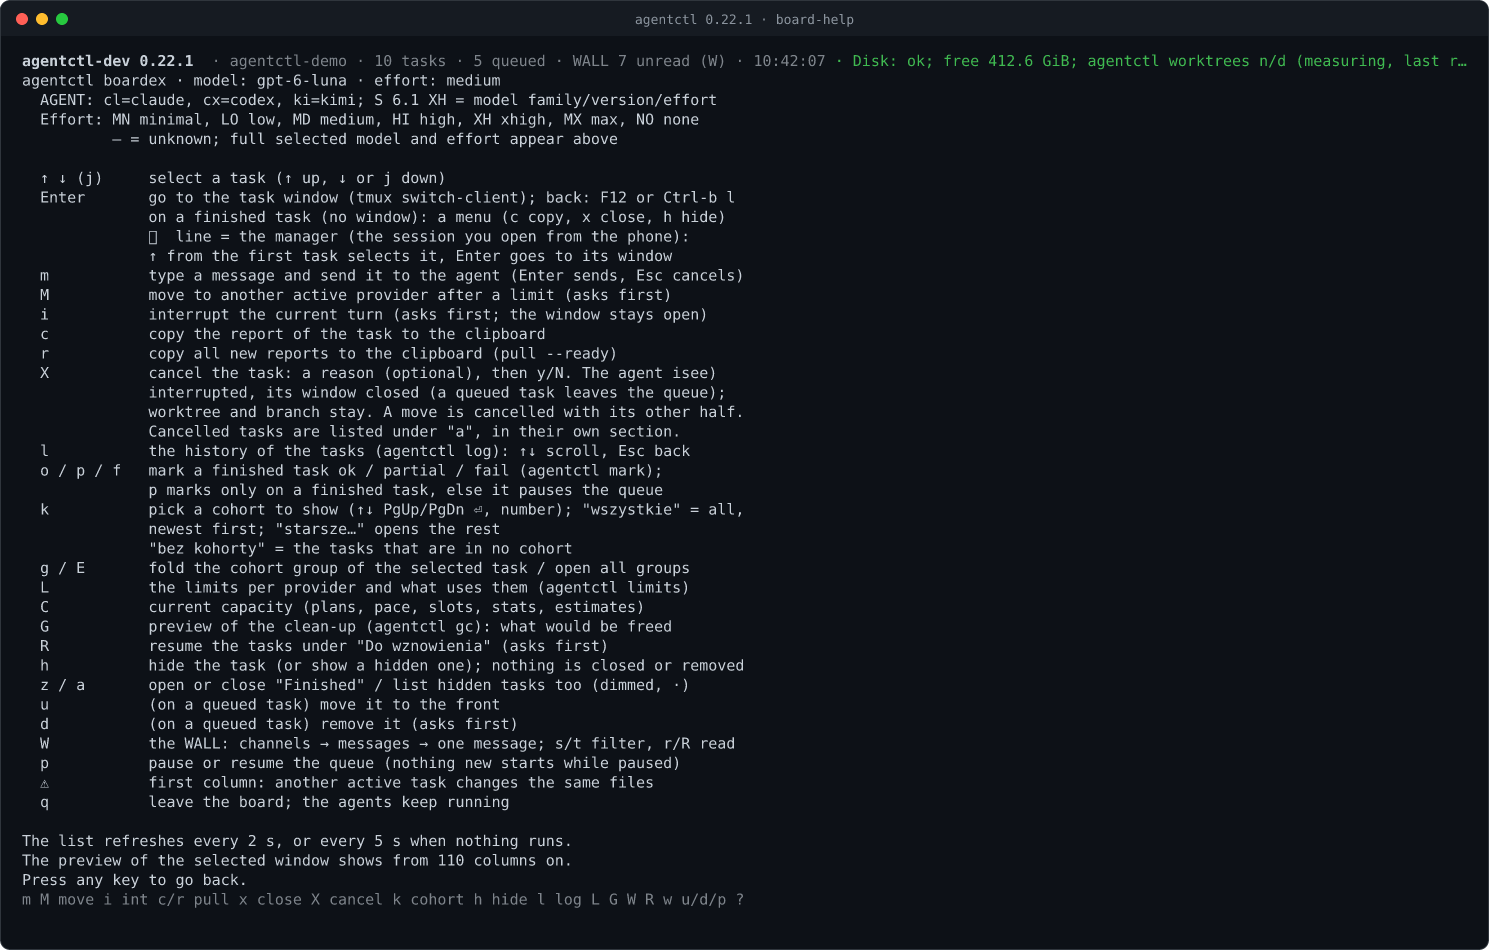
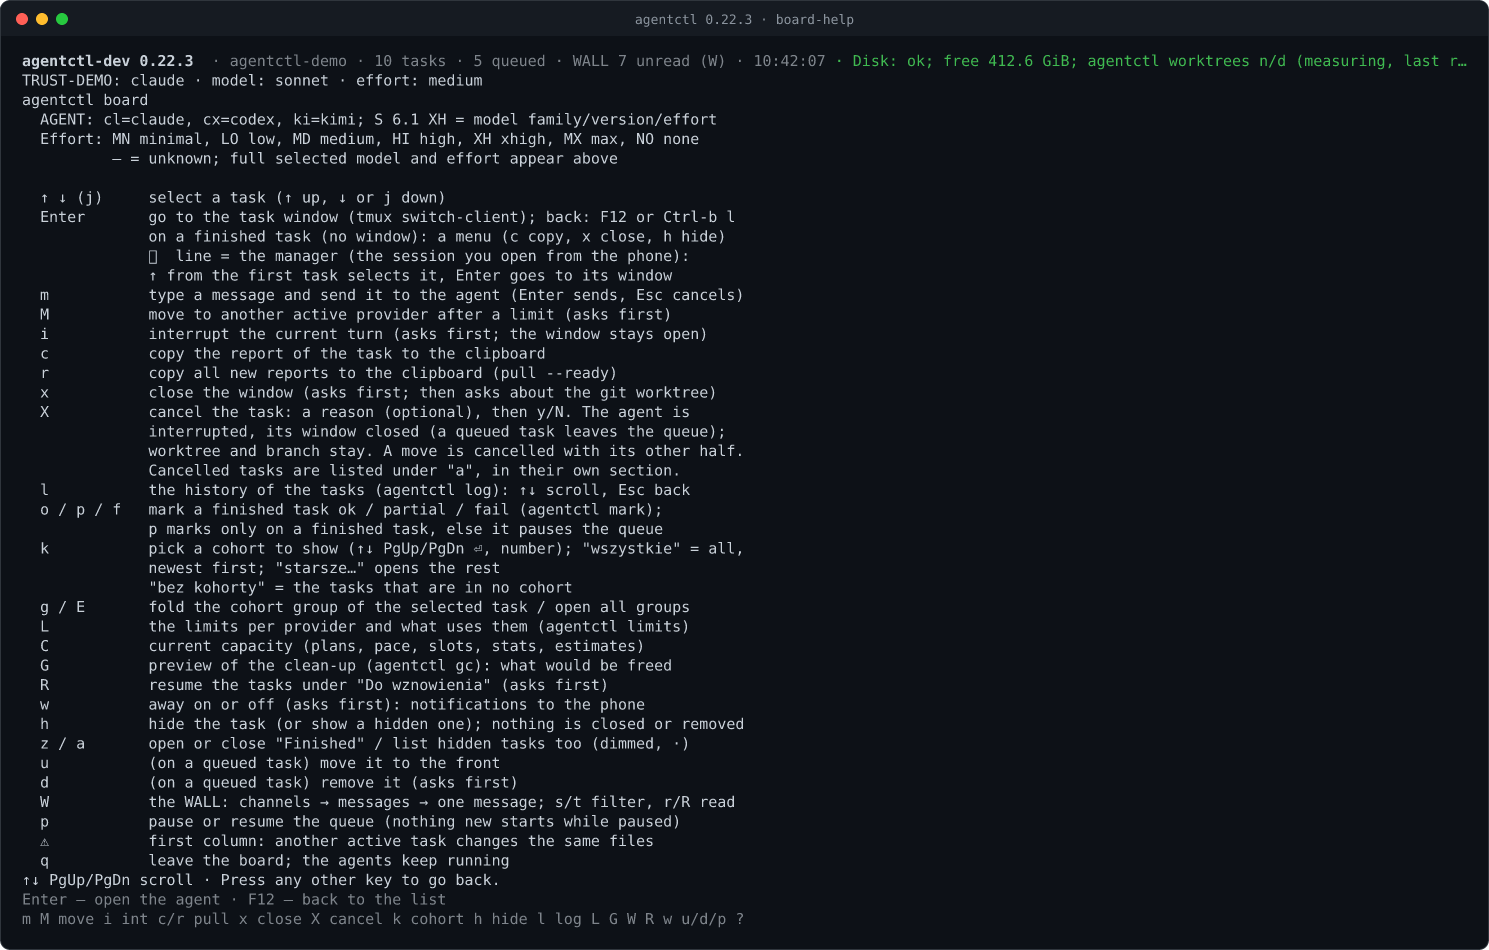
fix(board): bound and scroll help without header overdraw

Changed region(s): [[0.0, 0.0611, 0.4943, 0.9768], [0.0309, 0.1832, 0.0618, 0.2442], [0.4634, 0.6716, 0.4943, 0.7021]]

diff --git a/src/core/board.ts b/src/core/board.ts
@@ -151,7 +151,7 @@ export type BoardMode =
   | { kind: 'cancel-reason'; task: string; text: string }
   /** `k`: pick the cohort to show; `value` null is every task, '' the tasks without a cohort. */
   | { kind: 'cohort-pick'; options: CohortOption[]; index: number; expanded?: boolean }
-  | { kind: 'help' }
+  | { kind: 'help'; offset?: number }
   /** `l`: the history of the tasks (`agentctl log`), scrolled with the arrows. */
   | { kind: 'log'; lines: string[]; offset: number }
   /** `L` (limits), `G` (gc preview): a page of lines from the core, scrolled with the arrows. */
@@ -647,8 +647,14 @@ export function handleKey(state: BoardState, input: string, key: KeyPress): KeyR
       return cancelReasonKey(state, state.mode, input, key);
     case 'cohort-pick':
       return cohortPickKey(state, state.mode, input, key);
-    case 'help':
+    case 'help': {
+      const step = key.pageDown ? Math.max(1, state.height - 4) : key.pageUp ? -Math.max(1, state.height - 4) : key.downArrow ? 1 : key.upArrow ? -1 : 0;
+      if (step) {
+        const max = Math.max(0, modelHelp(state).length + HELP_LINES.length - Math.max(1, state.height - 4));
+        return { state: { ...state, mode: { kind: 'help', offset: Math.max(0, Math.min(max, (state.mode.offset ?? 0) + step)) } }, effects: [] };
+      }
       return { state: toList(state), effects: [] };
+    }
     case 'log':
       return logKey(state, state.mode, input, key);
     case 'view':
@@ -1276,4 +1282,12 @@ export function awayLabel(away: AwayView | null): { text: string; dim: boolean }
 export function modelHelp(state: BoardState): string[] {
   const row = state.rows.find(r => r.task === state.selected) ?? state.queue.find(v => v.entry.task === state.selected)?.entry;
   return row ? [`${row.task}: ${row.agent} · model: ${row.model} · effort: ${row.effort}`] : [];
+}
+
+/** Header, two footer rows and help hint reserve four terminal rows. Never overflow Ink's screen. */
+export function helpLines(state: BoardState): string[] {
+  const lines = [...modelHelp(state), ...HELP_LINES];
+  const room = Math.max(1, state.height - 4);
+  const offset = Math.min(state.mode.kind === 'help' ? state.mode.offset ?? 0 : 0, Math.max(0, lines.length - room));
+  return [...lines.slice(offset, offset + room), '↑↓ PgUp/PgDn scroll · Press any other key to go back.'];
 }

diff --git a/scripts/docs-gallery.ts b/scripts/docs-gallery.ts
@@ -66,14 +66,16 @@ await withHarness({ name: 'docs-gallery', session: 'agentctl-demo', config: 'lim
     throw new Error(`${label} not visible:\n${plain()}`);
   };
   const captures: { name: string; bytes: number }[] = [];
+  const helpOnly = process.argv.includes('--help-only');
   const capture = async (name: string) => {
+    if (helpOnly && name !== 'board-help') return;
     h.tmux(['resize-window', '-t', target, '-x', '161', '-y', '45']);
     await pause(250);
     h.tmux(['resize-window', '-t', target, '-x', '160', '-y', '45']);
     await pause(600);
     const ansi = h.tmux(['capture-pane', '-e', '-p', '-t', target]).stdout;
     if (/\/Users\/|marcin|cache-dev|agentctl-wt|\/private\/tmp/i.test(ansi)) throw new Error(`non-generic path in ${name}:\n${plain()}`);
-    const svg = renderSvg(parseAnsi(ansi, 160), { title: `agentctl 0.22.1 · ${name}` });
+    const svg = renderSvg(parseAnsi(ansi, 160), { title: `agentctl 0.22.3 · ${name}` });
     const png = new Resvg(svg.replaceAll(FONT_STACK, "'DejaVu Sans Mono'"), { font: { fontFiles, loadSystemFonts: false, defaultFontFamily: 'DejaVu Sans Mono' } }).render().asPng();
     fs.writeFileSync(path.join(repoRoot, 'docs/img', `${name}.png`), png);
     fs.writeFileSync(path.join(h.root, `${name}.ansi`), ansi);
@@ -85,6 +87,13 @@ await withHarness({ name: 'docs-gallery', session: 'agentctl-demo', config: 'lim
     for (let i = 0; i < 40; i++) { if (new RegExp(`▸\\s*${id}`).test(plain())) return; await key('Down'); }
     throw new Error(`cannot select ${id}`);
   };
+  if (helpOnly) {
+    await until('main', s => s.includes('TRUST-DEMO') && s.includes('Queue'));
+    await key('?'); await until('help', s => s.includes('Press any other key'));
+    await capture('board-help');
+    console.log('Recaptured help only; fake providers; sandbox stopped in finally.');
+    return;
+  }
   await until('main', s => s.includes('TRUST-DEMO') && s.includes('Queue') && s.includes('83%'));
   await until('waiting and preview', s => /WAIT-DEMO[^\n]*waiting/.test(s) && s.includes('Quick safety check')); await capture('board-main');
   await select('UI-CART-2'); await pause(2300); await capture('board-peek');

diff --git a/tests/board.test.ts b/tests/board.test.ts
@@ -1,3 +1,4 @@
+import * as boardModel from '../src/core/board.ts';
 import { readTaskRecord } from '../src/core/taskstore.ts';
 import { composerFixture } from './composer-fixture.ts';
 import assert from 'node:assert/strict';
@@ -519,3 +520,22 @@ describe('board: selected row colors', () => {
   });
 });
 
+
+it('HELP-HEIGHT: help fits the terminal and scrolls to every key without header overdraw', () => {
+  for (const height of [24, 45, 60]) {
+    let state = { ...initialBoardState(160, height), mode: { kind: 'help' as const } } as BoardState;
+    state = handleKey(state, '', { downArrow: true }).state;
+    assert.equal(state.mode.kind, 'help');
+    assert.ok(boardModel.helpLines(state).length <= height - 3);
+    state = handleKey(state, '', { upArrow: true }).state;
+    assert.ok(boardModel.helpLines(state).some(l => l.includes('agentctl board')));
+    for (let i = 0; i < 100; i++) state = handleKey(state, '', { downArrow: true }).state;
+    assert.equal(state.mode.kind, 'help');
+    assert.ok(boardModel.helpLines(state).some(l => l.includes('preview of the selected window')));
+    assert.ok(boardModel.helpLines(state).length <= height - 3);
+    state = handleKey(state, '', { pageUp: true }).state;
+    assert.equal(state.mode.kind, 'help');
+    state = handleKey(state, 'x', {}).state;
+    assert.equal(state.mode.kind, 'list');
+  }
+});

diff --git a/src/board/app.ts b/src/board/app.ts
@@ -16,14 +16,13 @@ import {
   boardRefreshMs,
   clearNotice,
   handleKey,
-  HELP_LINES,
+  helpLines,
   headerCells,
   initialBoardState,
   KEY_HINTS,
   awayLabel,
   loadBoard,
   managerLine,
-  modelHelp,
   loadLogLines,
   PREVIEW_LINES,
   ProgressCache,
@@ -328,7 +327,7 @@ export function Board(props: { ctx: Context; insideTmux: boolean; self?: SelfArg
       : logMode
       ? h(Box, { flexDirection: 'column' }, h(Text, { bold: true }, `Log – ${logMode.lines.length > 1 ? logMode.lines.length - 1 : 0} task${logMode.lines.length === 2 ? '' : 's'} (↑↓ scroll, Esc back)`), ...logMode.lines.slice(logMode.offset, logMode.offset + Math.max(1, state.height - 4)).map((l, i) => h(Text, { key: i, wrap: 'truncate-end', ...(i === 0 && logMode.offset === 0 ? { dimColor: true } : {}) }, l === '' ? ' ' : l)))
       : state.mode.kind === 'help'
-      ? h(Box, { flexDirection: 'column' }, ...[...modelHelp(state), ...HELP_LINES].map((l, i) => h(Text, { key: i }, l === '' ? ' ' : l)))
+      ? h(Box, { flexDirection: 'column' }, ...helpLines(state).map((l, i) => h(Text, { key: i, wrap: 'truncate-end' }, l === '' ? ' ' : l)))
       : h(
           Box,
           { flexDirection: 'row', height: rowsForBody },

diff --git a/tests/regression/catalog.ts b/tests/regression/catalog.ts
@@ -26,6 +26,7 @@ export interface BugEntry {
 const s = (file: string, name?: string): Scenario => ({ file, ...(name ? { name } : {}) });
 
 export const BUGS: BugEntry[] = [
+  { id: 'HELP-HEIGHT', fixedIn: '0.22.3', symptom: 'Board help overflowed terminal height and overdrew its header.', scenarios: [s('board.test.ts', '^HELP-HEIGHT:')] },
   { id: 'BASE-DEFAULT', fixedIn: '0.22.3', symptom: 'A missing spec base did not identify the repository default branch.', scenarios: [s('worktree-start.test.ts', '^BASE-DEFAULT:')] },
   { id: 'A11', fixedIn: '0.22.2', symptom: 'Unknown WALL identity and own posts are not visibly labelled.', scenarios: [s('a11-wall-visibility.test.ts')] },
   { id: 'A10', fixedIn: '0.22.2', symptom: 'Collapsed Codex questions omit text from namespaced session tool calls.', scenarios: [s('p65b-peek-question.test.ts', '^A10:')] },

diff --git a/tests/board-render.test.ts b/tests/board-render.test.ts
@@ -110,6 +110,10 @@ describe('board: the Ink front renders the model', () => {
     await until(() => term.screen().includes('NC-1'));
     await wait(100);
     keys.write('?');
+    await until(() => term.frames.some((f) => f.includes('Press any other key')));
+    keys.write('\u001b[6~'); // page down twice: help is bounded at 24 rows
+    await wait(50);
+    keys.write('\u001b[6~');
     await until(() => term.frames.some((f) => f.includes('leave the board')));
     keys.write('x'); // any key closes the help
     await wait(100);

diff --git a/CHANGELOG.md b/CHANGELOG.md
@@ -8,6 +8,8 @@ All notable changes to this project are documented here. The format follows [Kee
 
 ## [0.22.3] - 2026-11-15
 
+- HELP-HEIGHT: board help fits the terminal and scrolls with arrows/PgUp/PgDn; other keys return. / Pomoc boardu mieści się w terminalu, przewija strzałkami/PgUp/PgDn; pozostałe klawisze wracają.
+
 
 - Merge the complete 0.22.1 manuals and diagrams with all 0.22.2 operations fixes. / Scalenie pełnej dokumentacji 0.22.1 ze wszystkimi poprawkami operacyjnymi 0.22.2.
 - BASE-DEFAULT: unresolved spec bases identify the default from local origin/HEAD, falling back to local HEAD only for main/master; unknown metadata is explicit. No network or automatic substitution. / Nierozwiązywalna baza wskazuje domyślną gałąź z lokalnego origin/HEAD, awaryjnie HEAD dla main/master; brak danych jest jawny. Bez sieci i automatycznej podmiany.

diff --git a/tests/regression/CATALOG.md b/tests/regression/CATALOG.md
@@ -10,6 +10,7 @@ Regenerate this file with `npm run regression -- --catalog`.
 
 | Bug | Symptom | Scenario | Fixed in | Pre-fix proof |
 | --- | --- | --- | --- | --- |
+| HELP-HEIGHT | Board help overflowed terminal height and overdrew its header. | `tests/board.test.ts` (`^HELP-HEIGHT:`) | 0.22.3 | fails on v0.22.2 (1 failing of 1) |
 | BASE-DEFAULT | A missing spec base did not identify the repository default branch. | `tests/worktree-start.test.ts` (`^BASE-DEFAULT:`) | 0.22.3 | fails on v0.22.2 (1 failing of 1) |
 | A11 | Unknown WALL identity and own posts are not visibly labelled. | `tests/a11-wall-visibility.test.ts` | 0.22.2 | fails on v0.22.0 (1 failing of 1) |
 | A10 | Collapsed Codex questions omit text from namespaced session tool calls. | `tests/p65b-peek-question.test.ts` (`^A10:`) | 0.22.2 | fails on v0.22.0 (1 failing of 1) |

diff --git a/docs/pl/screenshots.md b/docs/pl/screenshots.md
@@ -89,3 +89,5 @@ Uruchom z bezwzględnym AGENTCTL_LIVE_CACHE własnego zadania: node --experiment
 ## Widoczność finished/wszystkich
 
 ![Widoczność finished/wszystkich](../img/board-all.png)
+
+Pomoc mieści się w wysokości terminala; ↑↓ i PgUp/PgDn przewijają, pozostałe klawisze wracają. Samą pomoc odtworzysz przez `scripts/docs-gallery.ts --help-only`, z powyższymi flagami Node.

diff --git a/docs/en/screenshots.md b/docs/en/screenshots.md
@@ -89,3 +89,5 @@ Run with an absolute task-owned AGENTCTL_LIVE_CACHE: node --experimental-strip-t
 ## Finished/all visibility
 
 ![Finished/all visibility](../img/board-all.png)
+
+Help is height-bounded; ↑↓ and PgUp/PgDn scroll, any other key returns. Recapture only help with `scripts/docs-gallery.ts --help-only` using the same Node flags above.
